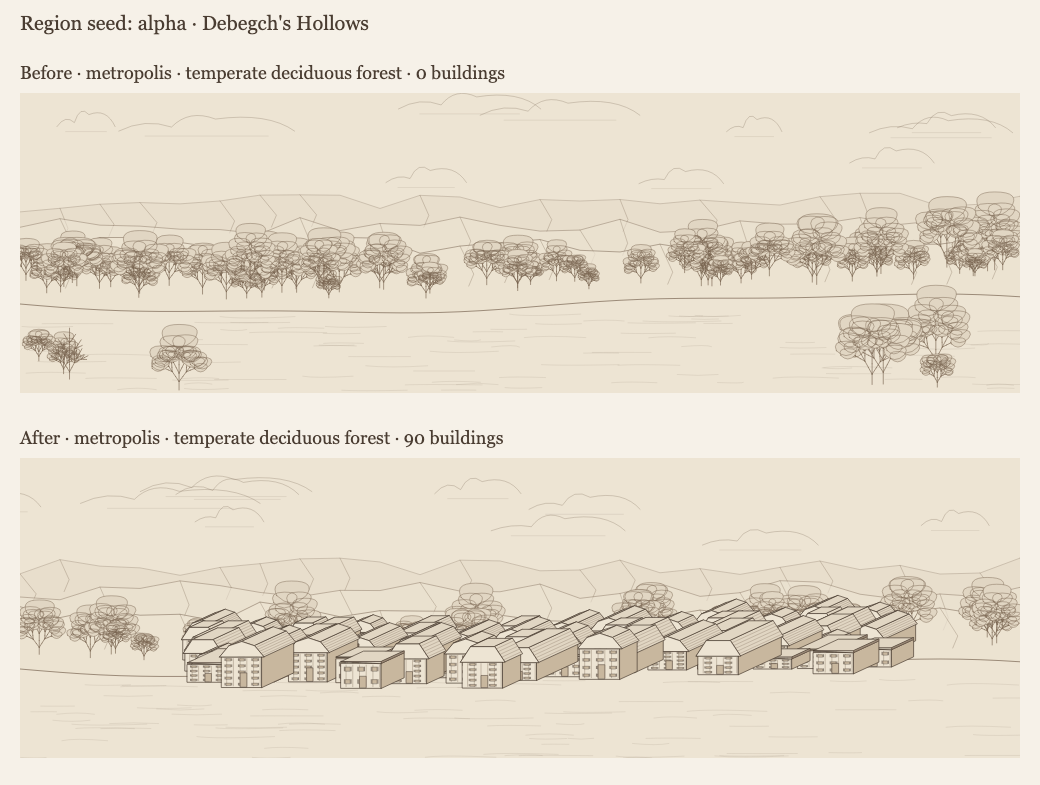
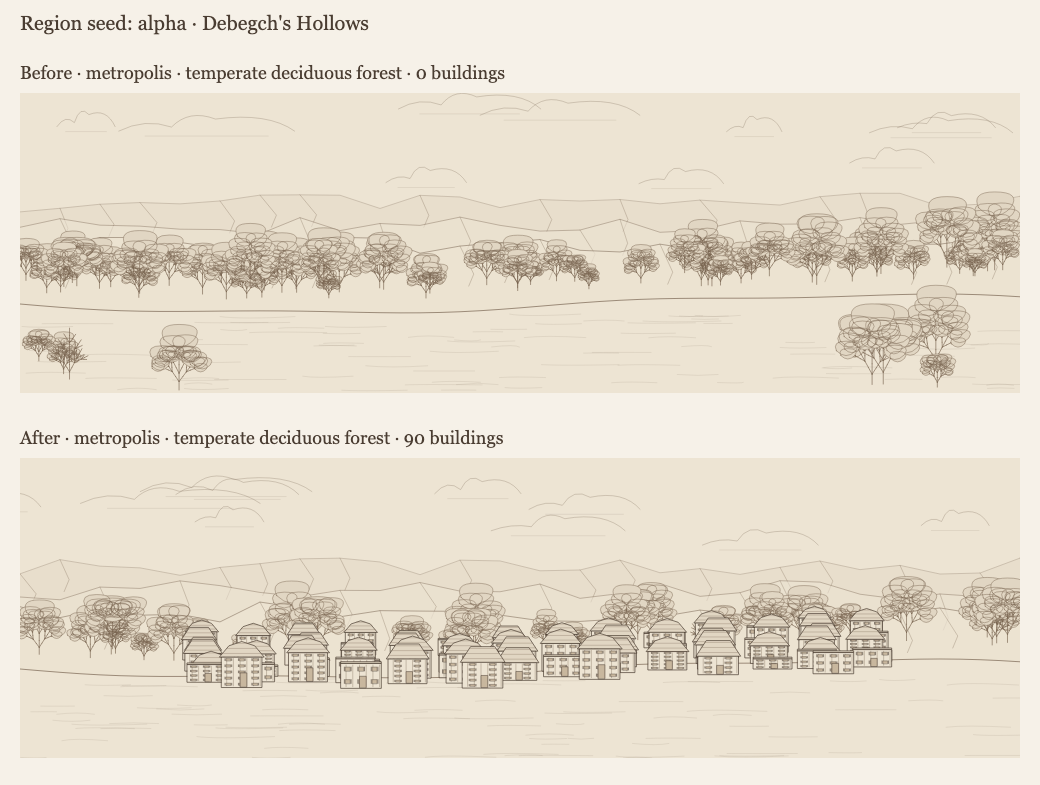
Draw settlement buildings as side-on elevations

Changed region(s): [[0.0615, 0.7338, 0.8923, 0.8866], [0.9231, 0.7338, 0.9846, 0.7949]]

diff --git a/src/lib/settlement_illustration/buildings.ts b/src/lib/settlement_illustration/buildings.ts
@@ -7,7 +7,7 @@ import type {
 import { n, path, polygon } from './geometry';
 import type { BuildingPlacement, ScenePath } from './settlement_illustration_types';
 
-/** Geometry is projected from a saved example; this function makes no random choices. */
+/** A side-on elevation of a saved example; this function makes no random choices. */
 export function drawBuilding(
   style: ArchitecturalStyle,
   example: ArchitecturalInstance,
@@ -28,9 +28,6 @@ export function drawBuilding(
   const roof = variant.roof;
   const w = 24;
   const h = w * example.wallHeightWidthRatio;
-  const depth = w / (example.widthDepthRatio ?? 1);
-  const dx = depth * 0.65;
-  const dy = -depth * 0.3;
   const pt = (a: number, b: number) => `${n(x + a * scale)},${n(y + b * scale)}`;
   const poly = (points: number[][], fill: 'paper' | 'light' | 'shade' = 'paper') =>
     polygon(
@@ -44,47 +41,31 @@ export function drawBuilding(
       [w, -h],
       [0, -h],
     ]),
-    poly(
-      [
-        [w, 0],
-        [w + dx, dy],
-        [w + dx, dy - h],
-        [w, -h],
-      ],
-      'shade',
-    ),
   ];
   const e = roof.eaves === 'deep' ? 3 : roof.eaves === 'short' ? 1.2 : 0;
   const rise = w * (roof.pitch === 'steep' ? 0.65 : roof.pitch === 'moderate' ? 0.38 : 0.14);
   const roofPoints = roofOutline(roof.form, w, h, rise, e);
   if (roof.form === 'dome') {
-    // A dome converges to one apex; extruding its section would depict a barrel vault.
-    const center = (w + dx) / 2;
-    const base = -h + dy / 2;
-    const radius = (w + dx) / 2 + e;
+    const center = w / 2;
+    const base = -h;
+    const radius = w / 2 + e;
     const apex = base - w * 0.65;
     paths.push(
       path(
-        `M${pt(center - radius, base)}Q${pt(center - radius, apex)} ${pt(center, apex)}Q${pt(center + radius, apex)} ${pt(center + radius, base)}Q${pt(center, base + 4)} ${pt(center - radius, base)}Z`,
+        `M${pt(center - radius, base)}Q${pt(center - radius, apex)} ${pt(center, apex)}Q${pt(center + radius, apex)} ${pt(center + radius, base)}Z`,
         'light',
       ),
     );
     paths.push(
       path(
-        `M${pt(center, apex)}Q${pt(center - radius * 0.4, base - 8)} ${pt(center - radius * 0.35, base + 2)}M${pt(center, apex)}Q${pt(center + radius * 0.4, base - 8)} ${pt(center + radius * 0.35, base + 2)}`,
+        `M${pt(center, apex)}Q${pt(center - radius * 0.4, base - 8)} ${pt(center - radius * 0.35, base)}M${pt(center, apex)}Q${pt(center + radius * 0.4, base - 8)} ${pt(center + radius * 0.35, base)}`,
         'none',
         'secondary',
         0.4,
       ),
     );
   } else {
-    // Extrude the roof section to its back edge, then draw the front face.
-    for (let i = 0; i < roofPoints.length - 1; i++) {
-      const a = roofPoints[i];
-      const b = roofPoints[i + 1];
-      paths.push(poly([a, b, [b[0] + dx, b[1] + dy], [a[0] + dx, a[1] + dy]], 'light'));
-    }
-    paths.push(poly(roofPoints, 'paper'));
+    paths.push(poly(roofPoints, 'light'));
   }
   // Fine strokes on the visible wall encode actual enclosure material, not biome stereotypes.
   const wall = variant.surfaces.find((s) => s.role === 'outer_wall');
@@ -103,19 +84,26 @@ export function drawBuilding(
   }
   const covering = style.materials.find((m) => m.id === roof.coveringMaterialId);
   if (covering && roof.form !== 'dome') {
-    for (let t = 0.15; t < 1; t += 0.18) {
-      const a = roofPoints[roofPoints.length - 2];
-      const b = roofPoints[roofPoints.length - 1];
-      const u = a[0] + (b[0] - a[0]) * t;
-      const v = a[1] + (b[1] - a[1]) * t;
-      paths.push(
-        path(
-          `M${pt(u, v)}L${pt(u + dx, v + dy)}`,
-          'none',
-          'secondary',
-          covering.form === 'thatch' ? 0.65 : 0.3,
-        ),
-      );
+    // Clip horizontal material courses to the elevation, including separate cross-gable peaks.
+    // There is no receding roof plane or visible side wall in this projection.
+    for (let v = -h - 2; v > Math.min(...roofPoints.map((p) => p[1])); v -= 3) {
+      const crossings = roofPoints
+        .flatMap(([ax, ay], index) => {
+          const [bx, by] = roofPoints[(index + 1) % roofPoints.length];
+          return (ay <= v && by > v) || (by <= v && ay > v)
+            ? [ax + ((v - ay) * (bx - ax)) / (by - ay)]
+            : [];
+        })
+        .sort((a, b) => a - b);
+      for (let i = 0; i + 1 < crossings.length; i += 2)
+        paths.push(
+          path(
+            `M${pt(crossings[i], v)}L${pt(crossings[i + 1], v)}`,
+            'none',
+            'secondary',
+            covering.form === 'thatch' ? 0.65 : 0.3,
+          ),
+        );
     }
   }
   paths.push(...openings(variant, example.storeys, w, h, pt));
@@ -187,6 +175,7 @@ export function roofOutline(
         [left, base - 1],
         [right, base - 1],
         [right, base],
+        [left, base],
       ];
     case 'shed':
       return [

diff --git a/src/lib/settlement_illustration/panorama.test.ts b/src/lib/settlement_illustration/panorama.test.ts
@@ -228,6 +228,38 @@ describe('settlement panorama', () => {
       ).toBeGreaterThan(drawBuilding(style, example, 0, 0, 1)!.paths.length);
     }
   });
+  it('draws side-on elevations without exposing depth as side walls or receding roof planes', () => {
+    const style = structuredClone(source.architecture.style!);
+    const example = { ...source.architecture.examples[0], placedFeatureIds: [] };
+    const profile = style.profiles.find((p) => p.id === example.profileId)!;
+    const variant = profile.variants.find((v) => v.id === example.variantId)!;
+    profile.portals = [];
+    variant.windows = null;
+    for (const surface of variant.surfaces) surface.finish = 'smooth';
+    for (const form of [
+      'flat',
+      'shed',
+      'gable',
+      'hip',
+      'gambrel',
+      'mansard',
+      'cross_gable',
+      'dome',
+      'barrel',
+    ] as RoofForm[]) {
+      variant.roof = { ...variant.roof!, form, eaves: 'deep' };
+      const shallow = drawBuilding(style, { ...example, widthDepthRatio: 4 }, 0, 0, 1)!;
+      const deep = drawBuilding(style, { ...example, widthDepthRatio: 0.25 }, 0, 0, 1)!;
+      expect(deep).toEqual(shallow);
+      // One wall face and one roof silhouette; material strokes do not add faces.
+      expect(shallow.paths.filter((p) => p.fill !== 'none')).toHaveLength(2);
+      for (const path of shallow.paths)
+        for (const match of path.d.matchAll(/(-?\d+(?:\.\d+)?),(-?\d+(?:\.\d+)?)/g)) {
+          expect(Number(match[1])).toBeGreaterThanOrEqual(-3);
+          expect(Number(match[1])).toBeLessThanOrEqual(27);
+        }
+    }
+  });
   it('expands bounded stochastic grammars and balances turtle branches', () => {
     for (const kind of [
       'broadleaf',

diff --git a/docs/regional-construction-review/README.md b/docs/regional-construction-review/README.md
@@ -3,6 +3,16 @@
 These samples use the first embedded settlement from actual region generation, with default
 configuration and the indicated root seed. No curated architectural palette is supplied.
 The before snapshots were generated at `fd16a5b3`, before construction completion was added.
+The after images include the requested side-on building elevations.
+
+## Building projection
+
+The same completed `alpha` settlement is shown before and after the art-direction clarification.
+The buildings now have a single wall face and roof silhouette, without receding side walls or roof
+planes. The architecture, building placements and landscape are identical. The isometric reference
+was rendered at `40ee39d0`; run the review script at that commit and the current commit to compare.
+
+![Seed alpha: isometric projection changed to side-on elevations](projection-comparison.png)
 
 ## Seed `alpha`
 

diff --git a/docs/settlement-panoramas.md b/docs/settlement-panoramas.md
@@ -18,6 +18,10 @@ the image so its readability does not depend on generated scenery. Retain illust
 art on parchment, matching the region map. Generate vector geometry at runtime; no stock landscape,
 prepainted building sprites, AI image service, or remote assets supply the scene.
 
+**Art direction clarification (November 2, 2026):** Buildings use side-on elevations, not isometric
+projection. Draw one wall face and a roof silhouette, with no extruded side walls or receding roof
+planes. Keep saved architectural forms, proportions, materials and openings in the elevation.
+
 This proposal does not change persisted settlement or architecture schemas. Exports, vault editors,
 and the region map itself are outside this issue. Landscape and weather are illustrative compositions,
 not new geographical or current-weather facts written back into the settlement.

diff --git a/src/lib/settlement_illustration/README.md b/src/lib/settlement_illustration/README.md
@@ -3,6 +3,8 @@
 Pure, deterministic sepia panorama SVGs derived from saved settlement semantics. Both generator
 views use the same 1000 × 300 scene. Sky, ridges, ground, vegetation and building projection are
 procedural; forests use bounded stochastic L-systems. No external assets or rendering service.
+Buildings are side-on elevations: a single wall face and roof silhouette, with no isometric side
+walls or receding roof planes. Saved roof forms, pitch, eaves, materials and openings remain visible.
 
 `buildSettlementPanorama(input)` owns a local seeded RNG. Helpers share that instance;
 `renderSettlementPanorama(scene)` only serializes. Category population bounds come from the supplied
